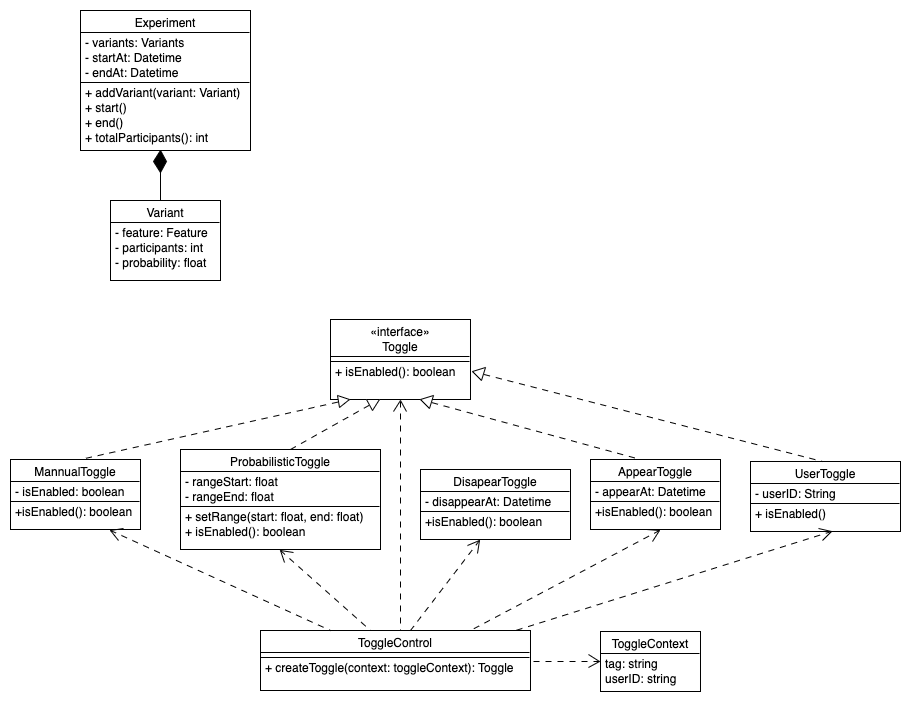
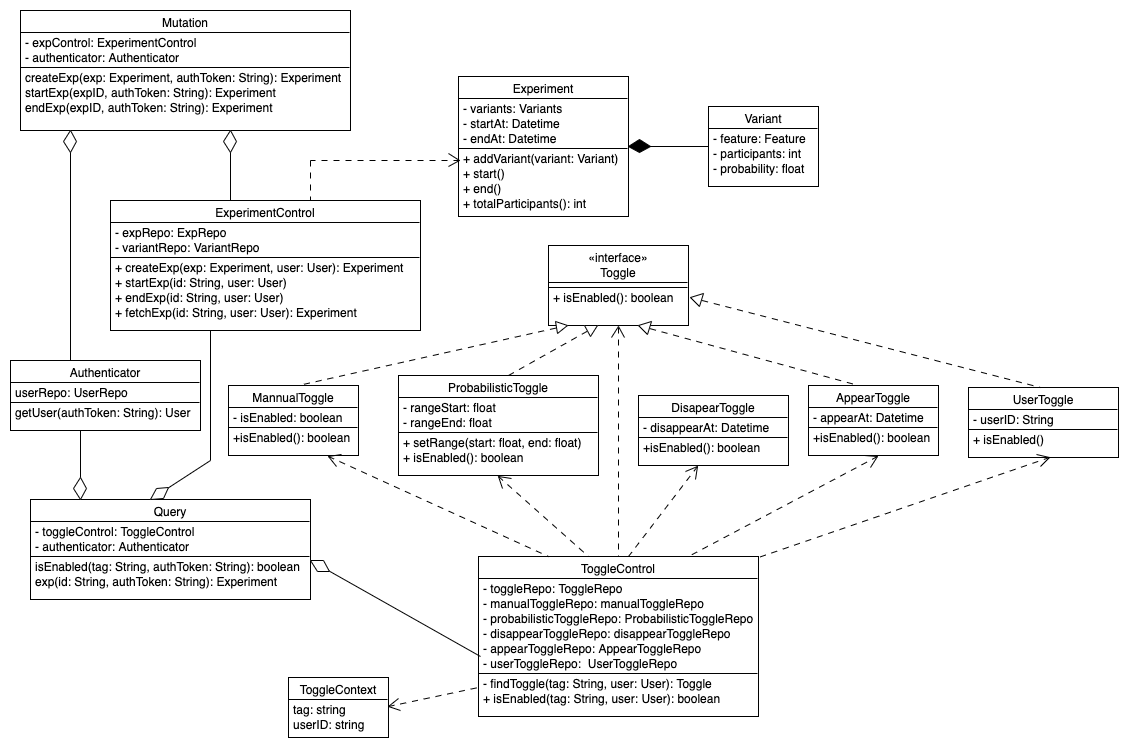
Update UML and add it to readme (#2)
* Add backend UML

* Add UML to README

* Update backend UML

diff --git a/README.md b/README.md
@@ -1,5 +1,10 @@
 # Toggle
+
 Modify system behavior without changing code.
+
+## Architecture
+
+![UML](doc/backend.png)
 
 ## Contributing
 
